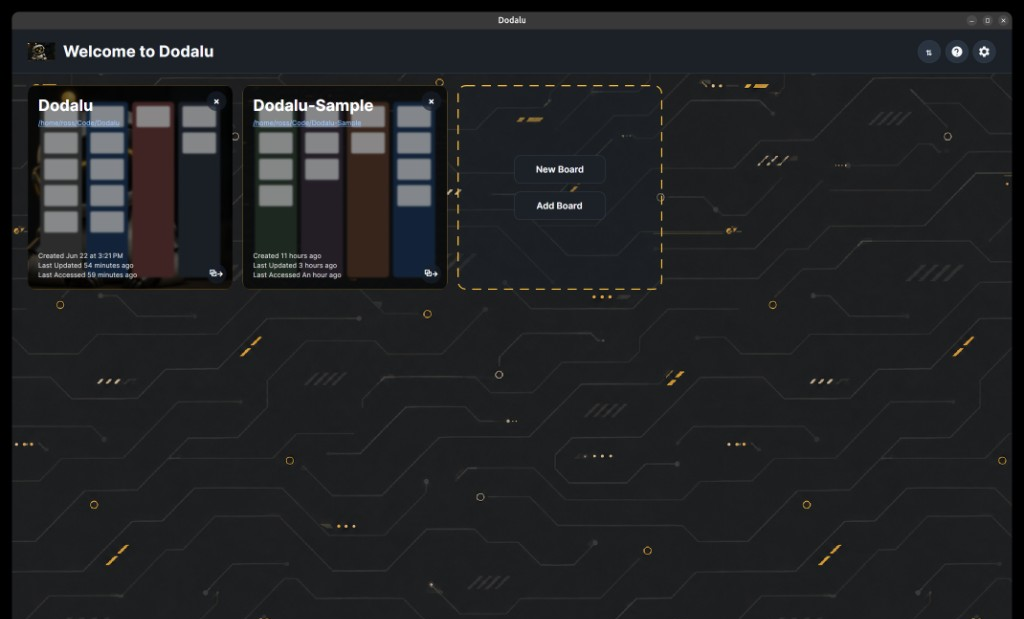
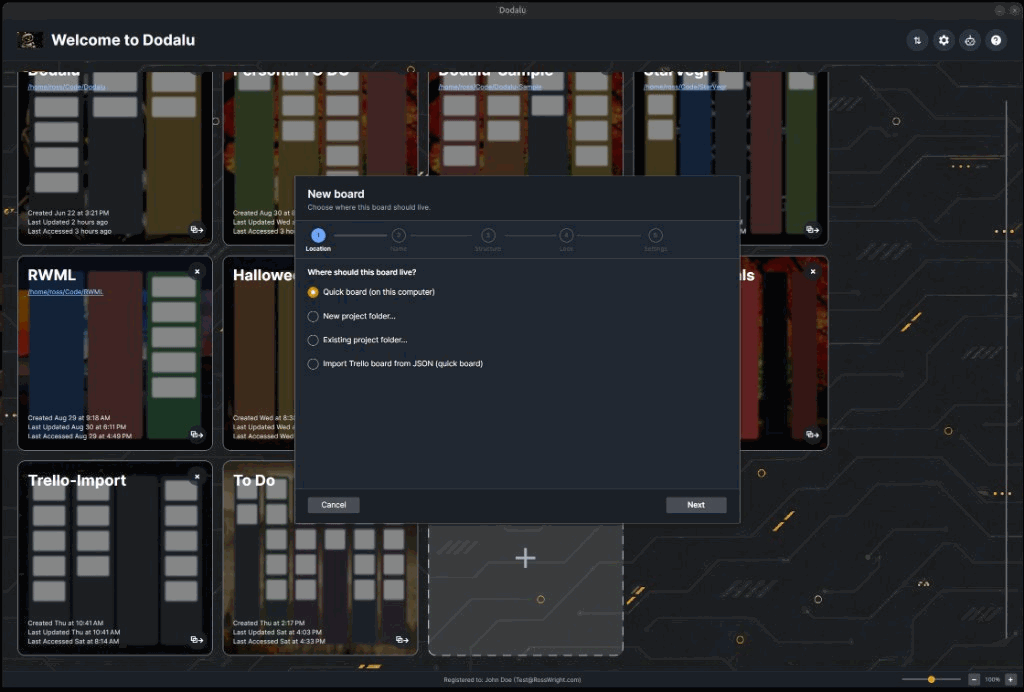
Update screenshots and feature list for the current app.

diff --git a/index.html b/index.html
@@ -6,7 +6,7 @@
   <title>Dodalu — See the work. Keep it yours.</title>
   <meta
     name="description"
-    content="Dodalu is a personal kanban board that lives in a folder on your machine — for projects, plans, and everything you’re juggling. No account. No cloud workspace."
+    content="Dodalu is a personal desktop kanban board that lives on your machine — quick boards, project folders, Markdown card notes, buckets, tags, and optional MCP for agents. No account required."
   />
   <meta property="og:title" content="Dodalu" />
   <meta
@@ -38,6 +38,7 @@
       <a href="#uses">Uses</a>
       <a href="#notes">Notes</a>
       <a href="#agents">Agents</a>
+      <a href="#features">Features</a>
       <a class="nav-download" href="#download">Download</a>
     </nav>
   </header>
@@ -48,9 +49,8 @@
         <p class="hero-brand" id="hero-brand">Dodalu</p>
         <h1 class="hero-line">See the work. Keep it yours.</h1>
         <p class="hero-support">
-          A personal kanban board that lives in a folder on your machine —
-          for projects, plans, and everything you’re juggling. No account.
-          No cloud workspace.
+          A personal kanban board on your desktop — for projects, plans, and
+          everything you’re juggling. No account. No cloud workspace.
         </p>
         <div class="hero-actions">
           <a class="btn primary" href="#download">Download</a>
@@ -66,8 +66,8 @@
               class="hero-shot"
               src="assets/hero-board.png"
               width="1024"
-              height="619"
-              alt="Dodalu kanban board with To Do, Doing, Test, and Done columns"
+              height="695"
+              alt="Dodalu kanban board with To Do, Doing, Test, and Done columns on an autumn wallpaper"
             />
           </picture>
         </div>
@@ -75,7 +75,7 @@
     </section>
 
     <p class="trust-line reveal">
-      <span>Local files.</span> Open a folder → get a board. You own the data.
+      <span>Local files.</span> Quick board or project folder — you own the data.
     </p>
 
     <section class="uses" id="uses" aria-labelledby="uses-title">
@@ -120,11 +120,12 @@
 
     <section class="band" id="how" aria-labelledby="how-title">
       <div class="band-inner reveal">
-        <h2 id="how-title">Open a folder. Get a board.</h2>
+        <h2 id="how-title">Start a board your way.</h2>
         <p class="band-support">
-          Point Dodalu at any folder. You get columns and cards on this
-          machine — nothing to sign up for, nothing syncing to someone else’s
-          servers unless you choose to.
+          The welcome screen keeps your boards in one place. New Board walks
+          you through location, name, structure, look, and settings — a quick
+          board on this computer, a new or existing project folder, or bring
+          an existing board along from a JSON export.
         </p>
       </div>
       <figure class="shot reveal reveal-delay">
@@ -133,11 +134,11 @@
           <img
             src="assets/welcome.png"
             width="1024"
-            height="619"
-            alt="Dodalu welcome screen listing recent project boards"
+            height="692"
+            alt="Dodalu welcome screen with New Board wizard choosing where the board should live"
           />
         </picture>
-        <figcaption>Pick a board you’ve used, or open another folder.</figcaption>
+        <figcaption>Your boards catalog, with a guided New Board wizard.</figcaption>
       </figure>
     </section>
 
@@ -146,8 +147,8 @@
         <span class="step-index">01</span>
         <h3>Shape the board</h3>
         <p>
-          Columns, colors, wallpaper, tags, and buckets — tuned to this
-          project, not a workspace template.
+          Stages, colors, themes, wallpaper, tags, and buckets — tuned to
+          this work, not a hosted workspace template.
         </p>
       </article>
       <article class="step reveal reveal-delay">
@@ -162,8 +163,8 @@
         <span class="step-index">03</span>
         <h3>Stay in control</h3>
         <p>
-          Search, tag filters, archive, undo. Live board state stays on
-          your machine; durable notes can live with the project.
+          Search, tag filters, archive, undo, copy and paste across boards.
+          Your files stay on this machine.
         </p>
       </article>
     </section>
@@ -246,6 +247,38 @@
           Snap remains local/manual for now ·
           <a href="https://github.com/RossWright/Dodalu-Releases">GitHub</a>
         </p>
+      </div>
+    </section>
+
+    <section class="features" id="features" aria-labelledby="features-title">
+      <div class="features-inner reveal">
+        <h2 id="features-title">Features</h2>
+        <p class="features-lead">
+          Dodalu is a local-first desktop kanban app for a single user. Here is
+          what it does today:
+        </p>
+        <ul class="feature-list">
+          <li>Personal kanban boards that run on Windows and Linux (desktop app)</li>
+          <li>No account and no required cloud sync — board data stays on your computer</li>
+          <li>Boards catalog on the welcome screen with recent projects and sorting</li>
+          <li>New Board wizard: location, name, structure, look, and settings</li>
+          <li>Quick boards stored on this computer, or boards inside a new or existing project folder</li>
+          <li>Import a board from a Trello JSON export (lists, cards, labels, checklists)</li>
+          <li>Custom stages (columns) with colors, widths, collapse, and reorder in edit mode</li>
+          <li>Built-in themes, board wallpaper, and card/selection/bucket colors</li>
+          <li>Cards with titles, summaries, colored tags, and optional Markdown backing documents</li>
+          <li>In-app Markdown preview and source editor, with open-in-external-editor</li>
+          <li>Buckets to group related cards one level deep inside a stage</li>
+          <li>Search across titles and summaries, with optional search in Spec documents</li>
+          <li>Tag filters on the board; manage a project tag catalog</li>
+          <li>Archive and restore cards (optional permanent delete)</li>
+          <li>Undo and redo for board content changes</li>
+          <li>Cut, copy, paste, and copy-to between boards; drag cards across Dodalu windows</li>
+          <li>Optional effort tracking with estimates and work entries</li>
+          <li>Optional MCP server so external agents (Cursor, Claude Desktop, Codex, Copilot) can create, update, and move cards</li>
+          <li>Board state as local JSON plus Markdown files you can keep with a project</li>
+          <li>In-app updates from the Dodalu release feed; optional paid license via Lemon Squeezy</li>
+        </ul>
       </div>
     </section>
   </main>

diff --git a/styles.css b/styles.css
@@ -370,9 +370,56 @@ code {
   max-width: 36ch;
 }
 
+.features {
+  max-width: var(--max);
+  margin: 0 auto;
+  padding: 0 1.5rem 4.5rem;
+}
+
+.features-inner {
+  border-top: 1px solid var(--line);
+  padding-top: 3rem;
+}
+
+.features h2 {
+  margin: 0 0 0.75rem;
+  font-family: var(--font-display);
+  font-weight: 800;
+  font-size: clamp(1.6rem, 3vw, 2.1rem);
+  letter-spacing: -0.03em;
+}
+
+.features-lead {
+  margin: 0 0 1.25rem;
+  max-width: 48ch;
+  color: var(--ink-soft);
+  font-size: 1.05rem;
+}
+
+.feature-list {
+  margin: 0;
+  padding-left: 1.2rem;
+  columns: 2;
+  column-gap: 2.5rem;
+  color: var(--ink-soft);
+  font-size: 0.98rem;
+}
+
+.feature-list li {
+  break-inside: avoid;
+  margin: 0 0 0.55rem;
+  padding-left: 0.15rem;
+}
+
+@media (max-width: 900px) {
+  .feature-list {
+    columns: 1;
+  }
+}
+
 .band-support {
   margin: 0;
-  max-width: 42ch;
+  max-width: 52ch;
   color: var(--ink-soft);
   font-size: 1.2rem;
 }
